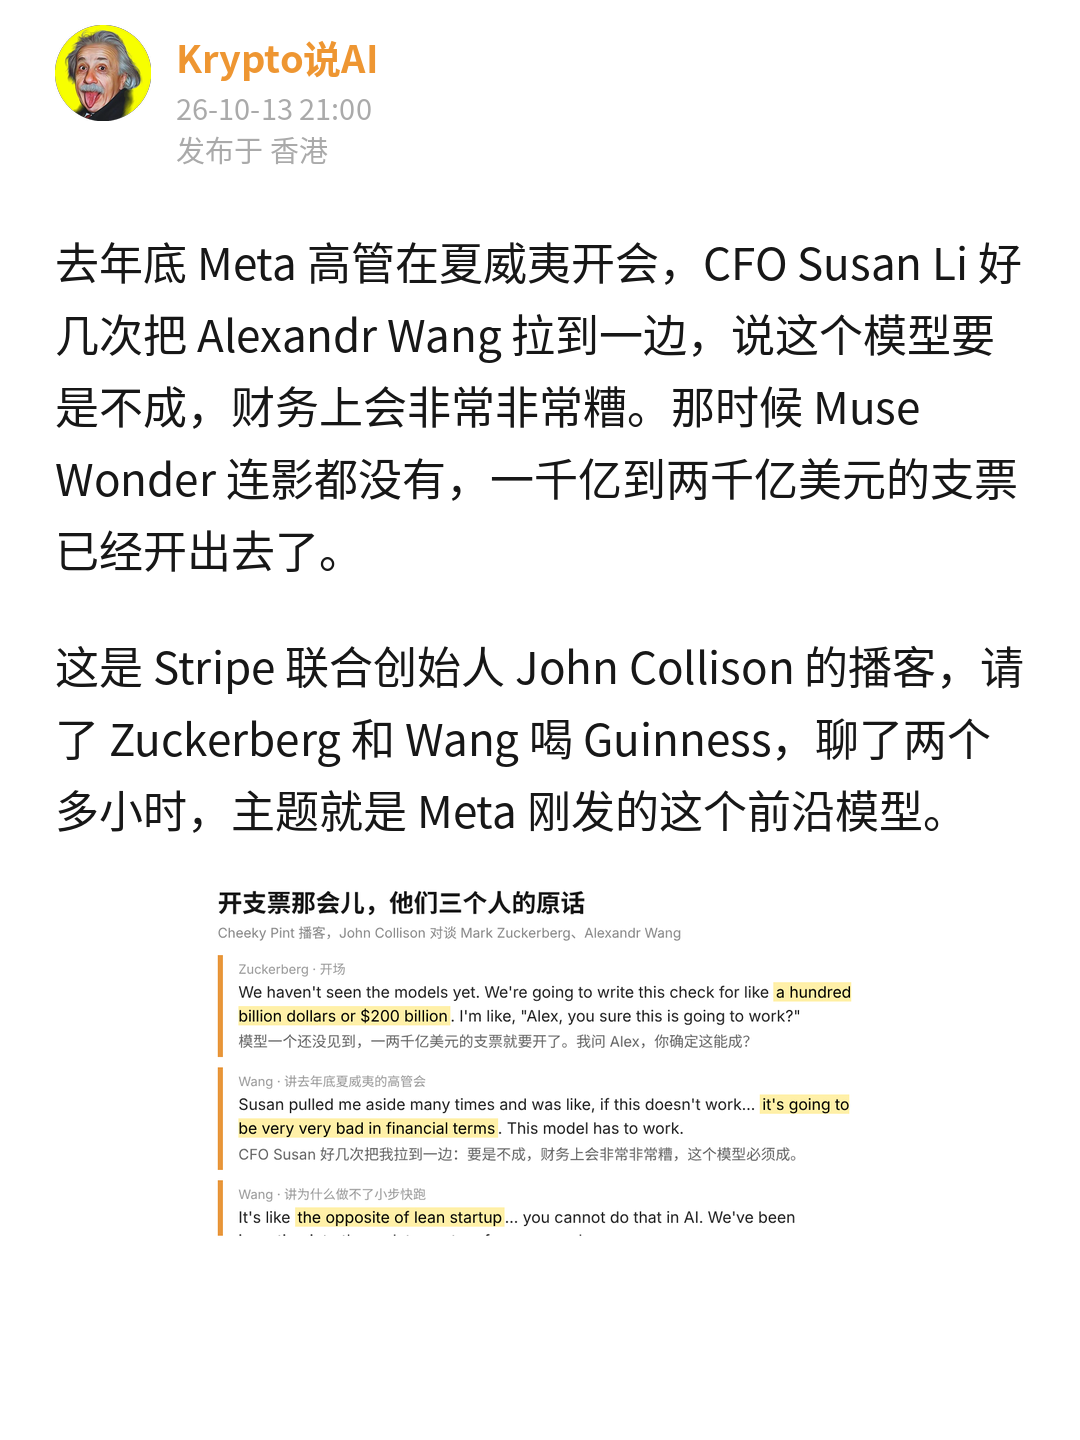
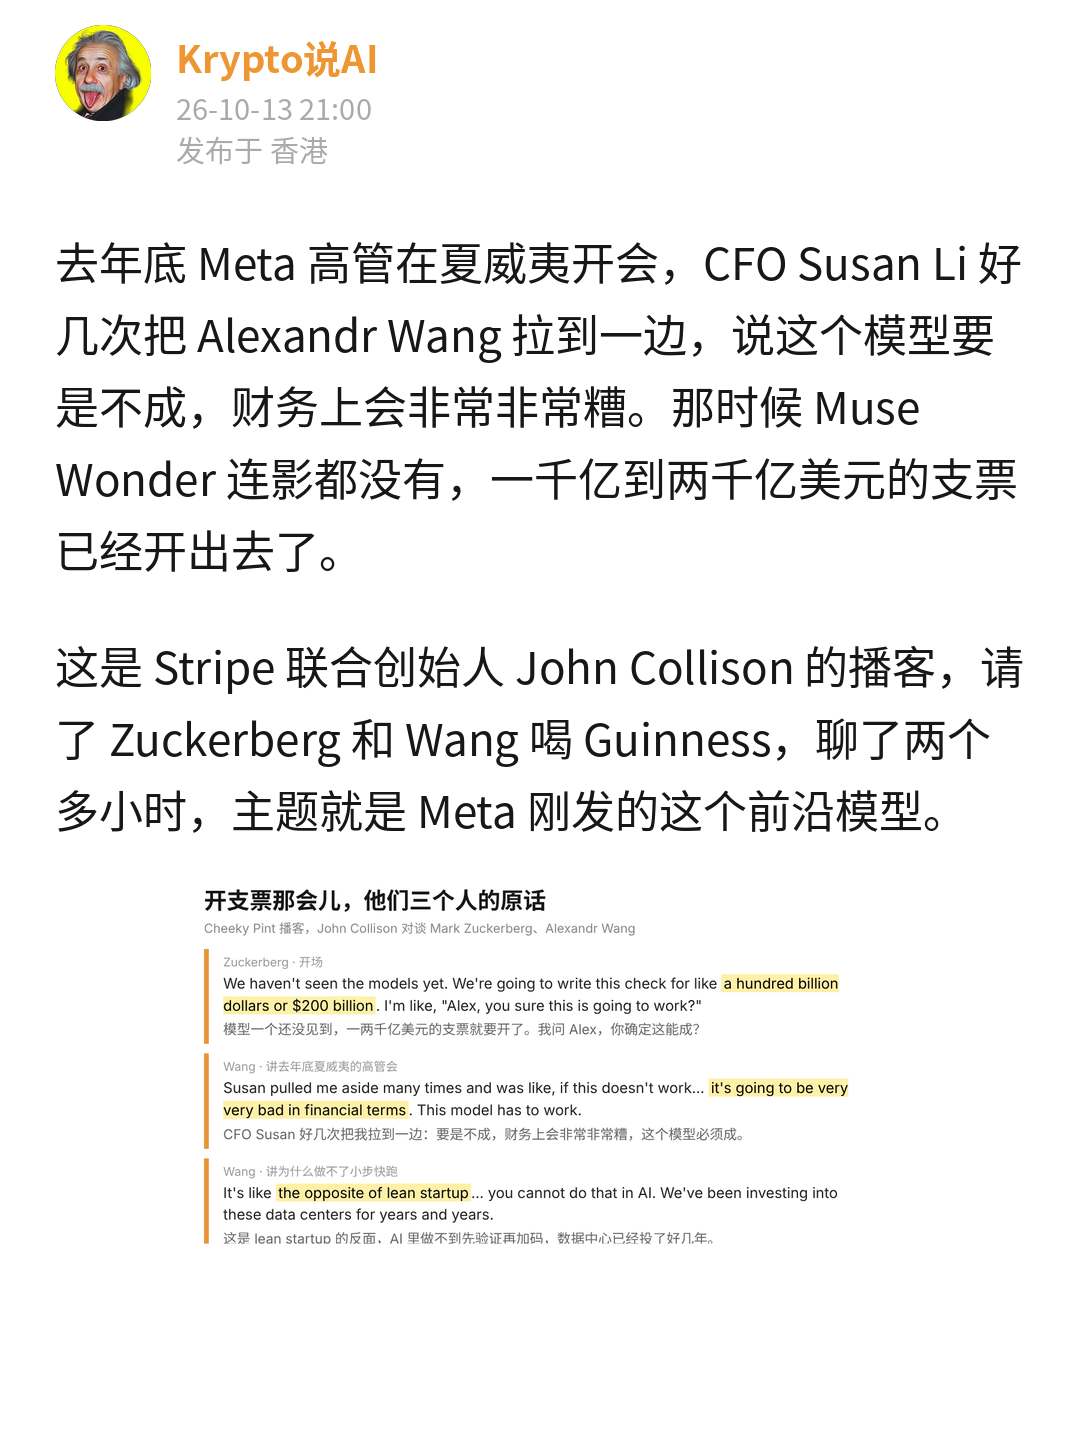
10-13 Muse Wonder 稿：首页原话图改宽，三句原话完整显示
Claude-Session: https://claude.ai/code/session_01U7qz4eSZJWs6Xuu86S4WTN

Changed region(s): [[0.1833, 0.5938, 0.7944, 0.875]]

diff --git a/发布/2026-10-13_zuck-wang-muse-wonder/meme版/编辑用/quote.html b/发布/2026-10-13_zuck-wang-muse-wonder/meme版/编辑用/quote.html
@@ -1,5 +1,5 @@
 <!doctype html><html><head><meta charset="utf-8"><style>
-body{margin:0;width:540px;height:372px;background:#fff;font-family:-apple-system,"PingFang SC","Noto Sans CJK SC",sans-serif;color:#171717}
+body{margin:0;width:600px;height:400px;background:#fff;font-family:-apple-system,"PingFang SC","Noto Sans CJK SC",sans-serif;color:#171717}
 .wrap{padding:12px 20px}
 h1{font-size:19px;margin:0 0 3px;font-weight:700}
 .sub{font-size:10.5px;color:#888;margin-bottom:10px}
